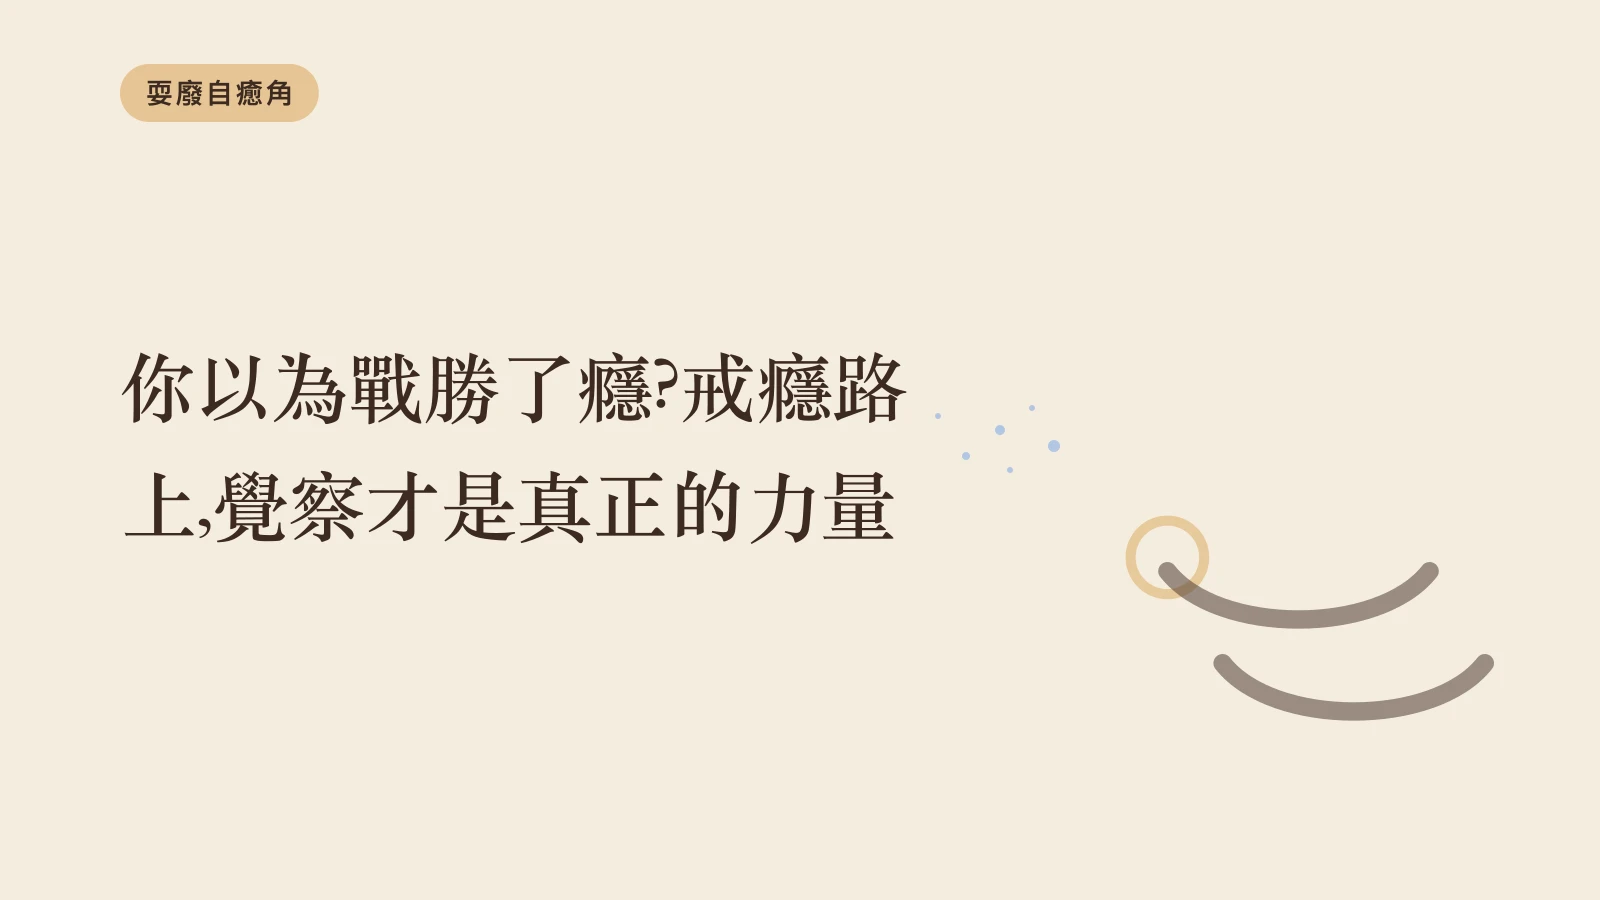
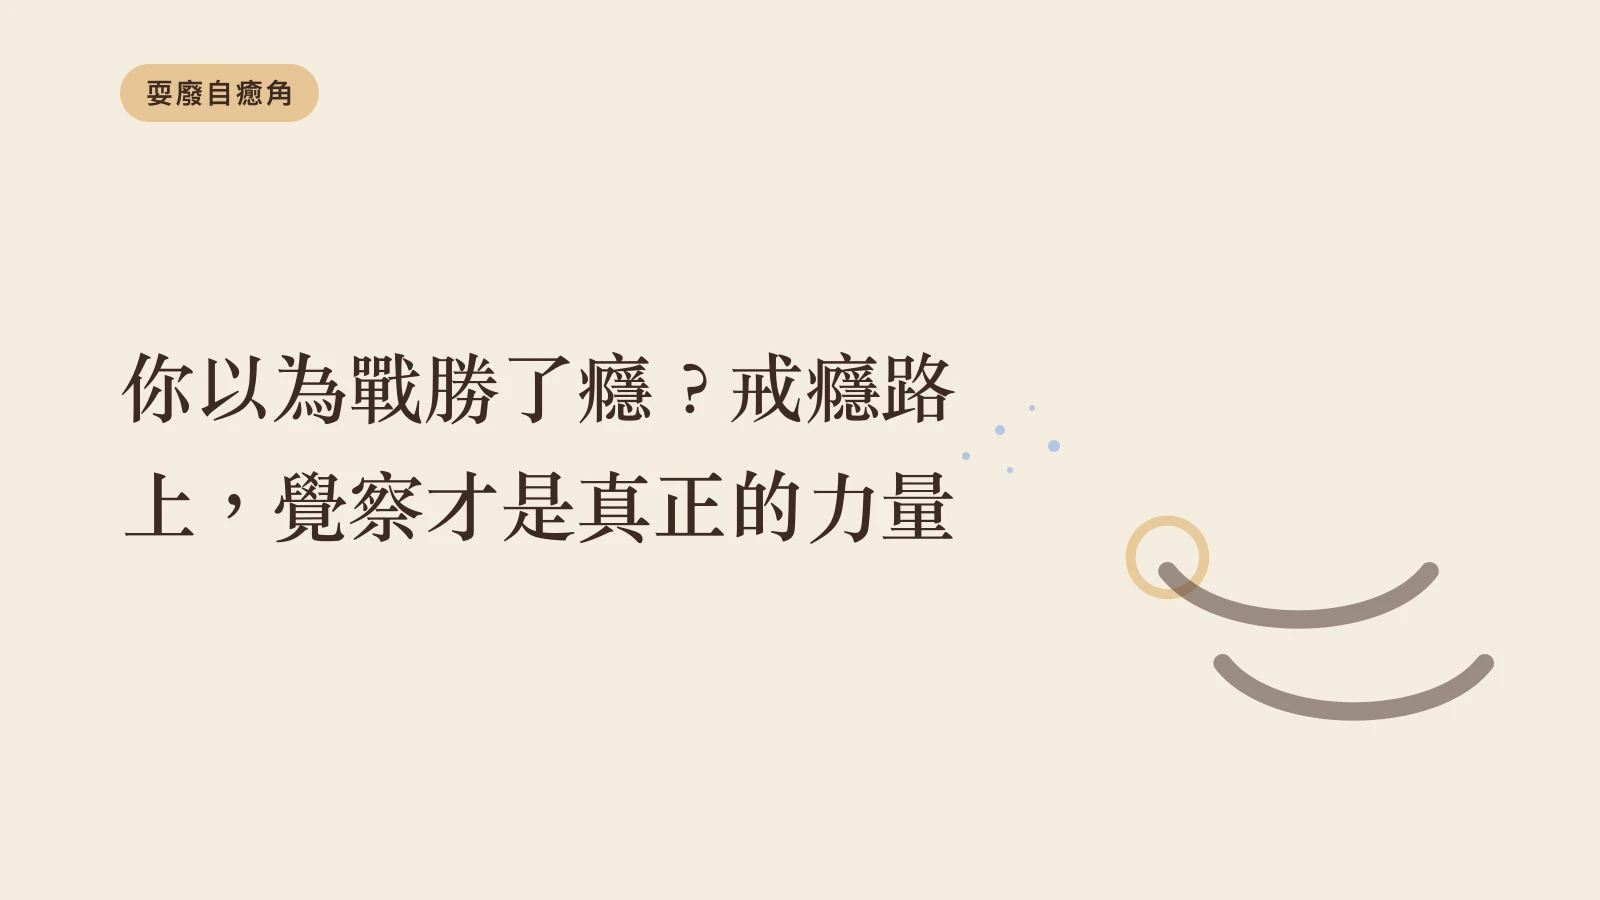
fix: 封面圖字型 fallback 問題 + 新增全形標點自動修正機制
- 兩篇新文章的封面圖標題排版有問題（全形問號、括號看起來像半形、
  「開引號前有奇怪的留白），根因是字型清單第一順位「Noto Serif TC」
  「Noto Sans TC」這台機器根本沒裝，librsvg 解析不存在的字型時，
  個別標點符號偶爾會 fallback 到錯的替代字型，跟其他中文字擠在一起。
  改成只列這台機器實際有裝的 Songti TC / PingFang TC，不再依賴
  不存在的字型
- 新增 src/lib/normalize-punctuation.mjs：把「緊鄰中文字」的半形標點
  （，。？！；：（） ）自動轉全形，不會誤動英數內容裡的標點
  （例如 3.5、0-10 不受影響）
- 封面生成腳本（generate-article-images.mjs）跟 post-commit hook
  都接上這個正規化——以後 Obsidian 打字習慣性用半形標點，
  commit 後會自動修正 title/summary，不用自己記得每次都用全形
- 補修正兩篇文章本身：addiction-recovery-self-awareness.md 標題裡
  一個半形逗號改全形，兩篇的封面圖都重新生成

（另外，戒癮文章那篇 commit 失敗導致部署掛掉的問題，是另一個
frontmatter null 值 schema 問題，已在前一個 commit 修好，這次是
接著處理排版本身的視覺問題。）

Changed region(s): [[0.125, 0.5289, 0.5938, 0.6222], [0.4062, 0.3733, 0.5938, 0.4667]]

diff --git a/src/content/articles/addiction-recovery-self-awareness.md b/src/content/articles/addiction-recovery-self-awareness.md
@@ -1,13 +1,14 @@
 ---
-title: 你以為戰勝了癮？戒癮路上,覺察才是真正的力量
+title: 你以為戰勝了癮？戒癮路上，覺察才是真正的力量
 date: 2026-08-09T00:00:00.000Z
 category: 耍廢自癒角
 tags:
-  - "#戒癮"
-  - "#成癮心理"
-  - "#自我覺察"
-  - "#成癮循環"
-summary: 你以為找到方法戰勝了癮，但其實你沒有。戒癮路上，我們拚命建構對抗成癮的能力，卻常忽略了背後「我可以掌控／我快要失控」的循環。這篇文章想說的是，戒癮真正需要的不是打贏一場仗，而是一層一層的自我覺察。
+  - '#戒癮'
+  - '#成癮心理'
+  - '#自我覺察'
+  - '#成癮循環'
+summary: >-
+  你以為找到方法戰勝了癮，但其實你沒有。戒癮路上，我們拚命建構對抗成癮的能力，卻常忽略了背後「我可以掌控／我快要失控」的循環。這篇文章想說的是，戒癮真正需要的不是打贏一場仗，而是一層一層的自我覺察。
 cover: /images/cover-addiction-recovery-self-awareness.webp
 ---
 
